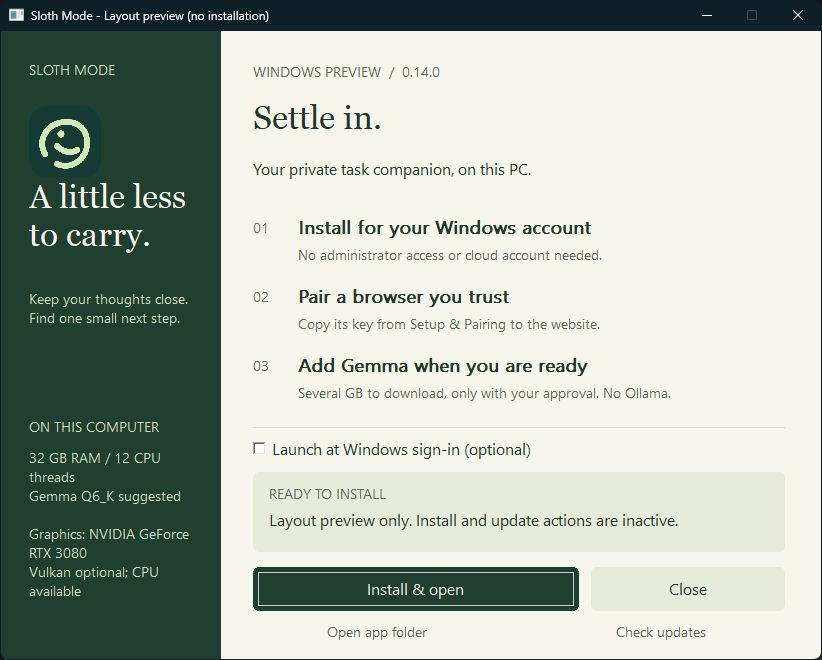
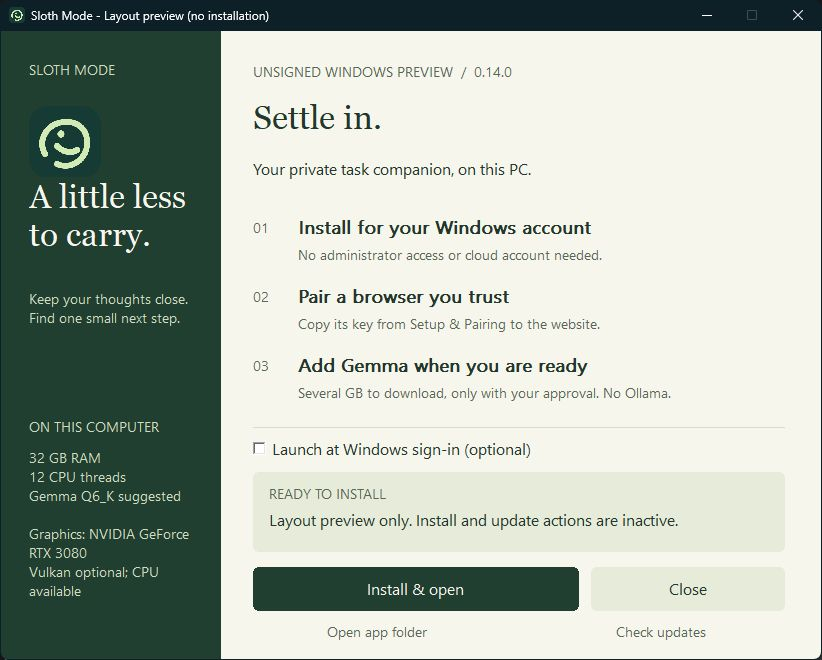
Fit hardware labels across Windows fonts and prepare DEV article

diff --git a/installer/hardware_windows.go b/installer/hardware_windows.go
@@ -35,7 +35,7 @@ func installerRecommendation() string {
 		quant = "Q5_K_M"
 	}
 	if gb > 0 {
-		return fmt.Sprintf("%.0f GB RAM / %d CPU threads\nGemma %s suggested", gb, runtime.NumCPU(), quant)
+		return fmt.Sprintf("%.0f GB RAM\n%d CPU threads\nGemma %s suggested", gb, runtime.NumCPU(), quant)
 	}
 	return fmt.Sprintf("%d CPU threads\nGemma Q4_K_M suggested", runtime.NumCPU())
 }

diff --git a/docs/DEVTO_ARTICLE_UPDATE.md b/docs/DEVTO_ARTICLE_UPDATE.md
@@ -1,0 +1,126 @@
+*This is a submission for the [Hacktoberfest Open-Source AI Challenge Week 3: Slow and Steady](https://dev.to/challenges/hacktoberfest-week3-2026-10-19).* 🦥
+
+Pay the electricity bill tomorrow. Read a chapter when I have time. I already tidied the desk.
+
+A to-do list can hold all three. I still have to decide what matters, what can wait, and what no longer needs doing. On a tired day, organising the list becomes another task on the list.
+
+I built **Sloth Mode** to make that first decision smaller: put rough notes in one place, let a local Gemma model suggest a plan, then choose what to do with it. The private notes can stay on the computer doing the thinking.
+
+## What I Built
+
+Sloth Mode is a task companion for the loose ends you capture before you know what to do with them. Gemma suggests a priority, category, short summary and next action for each selected note. Each suggestion points back to its original note, so you can check the wording before accepting it.
+
+It is for someone who wants help starting without first maintaining an elaborate productivity system. The model drafts the organisation; the person can edit, ignore or act on it. Sloth Mode does not send messages or execute the suggested tasks.
+
+There are three ways to explore it:
+
+| Route | What happens | What you need |
+|---|---|---|
+| **Quiet Lab** | An illustrative, rules-based preview of the interaction | A browser; no account or download |
+| **Native Gemma** | Real Gemma 3 GGUF inference through a local Go companion and `llama.cpp` | Windows preview or experimental Linux build; separate model/runtime download and explicit browser pairing |
+| **Browser Gemma beta** | An experimental Gemma 4 E2B path using WebGPU/LiteRT-LM | Compatible hardware/browser and an approved model download of about 2 GB; wider compatibility is still unverified |
+
+An optional account holds a **separate** list of tasks you explicitly save there. Signing in does not silently upload the local inbox or grant access to the companion.
+
+## Demo
+
+**[Try the guest workspace →](https://sloth.marceli.dev/dashboard)**
+
+Start with Quiet Lab and its sample notes. It is the quickest way to understand the interaction, and it is labelled as a preview: **it does not call Gemma**.
+
+The existing short video introduces the public beta:
+
+{% youtube GnaEFKQW9Vw %}
+
+*This is a promotional overview, not a recording or benchmark of model inference.*
+
+### What real Gemma returned
+
+In a recorded **21 October CPU check**, Gemma 3 4B Q4_K_M processed these three fictional notes:
+
+| Original note | Suggested priority | Suggested next action |
+|---|---|---|
+| Pay electricity bill tomorrow. | Do next | Pay the electricity bill |
+| Read a chapter of a novel when I have time. | Save for later | Read a chapter of the novel |
+| I finished tidying my desk yesterday; no more action is needed. | No action | No action needed |
+
+Model startup took **2.766 seconds** and the generation request took **14.808 seconds**, using four CPU threads and zero GPU layers with the files already downloaded. That is one functional check on three notes, not a general quality score or a measurement of time saved. The [CPU report](https://github.com/marceli1404/sloth-mode/blob/564f4a3dd5364cfe191eb22b3dcd40cc5a4be5ba/docs/CPU_DEMO_REPORT.md) records the source, environment, hashes and earlier failures. These historical timings are separate from the new installer work.
+
+### Trying the native path
+
+1. Get the unsigned Windows preview and its SHA-256 from the [beta download guide](https://github.com/marceli1404/sloth-mode/blob/main/docs/PUBLIC_BETA_LAUNCH.md), or build from source.
+2. Install the companion for your Windows account. Open **Setup & Pairing**, then pair the browser you trust.
+3. Separately approve the Gemma model and runtime download. Use fictional notes for your first plan and review the suggestions.
+
+The native model download is several GB, depending on the quantization. An account and Ollama are not required. The [judges' quickstart](https://github.com/marceli1404/sloth-mode/blob/main/docs/WEEK3_JUDGES_QUICKSTART.md) includes an opt-in real-model test for a machine with those files installed.
+
+On 24 October I also refined the installer. Its old preview clipped text and made it too hard to see what would happen next. The [new candidate in PR #34](https://github.com/marceli1404/sloth-mode/pull/34) separates installation, browser pairing and the optional model download, with readable status and a layout that fits the monitor. It remains a review candidate; the older beta download above is a different build.
+
+![Sloth Mode's refined native Windows installer, with three setup steps, an optional sign-in launch checkbox and a primary Install & open button. The window is labelled as a layout preview with installation actions inactive.](https://raw.githubusercontent.com/marceli1404/sloth-mode/564f4a3dd5364cfe191eb22b3dcd40cc5a4be5ba/docs/images/installer-preview.jpg)
+
+*The actual native UI in a safe layout fixture. This image demonstrates the interface, not a completed installation or inference run.*
+
+## Code
+
+**[github.com/marceli1404/sloth-mode](https://github.com/marceli1404/sloth-mode)**
+
+The Go companion is in `connector/`, the Windows installer in `installer/`, the browser workspace in `web/`, and the reference account service in `cloud/`. Application code is MIT-licensed; Gemma weights and the runtime retain their own terms.
+
+The [first commit](https://github.com/marceli1404/sloth-mode/commit/0a51feca7a22a0b3ce06a5585740c8219f842e70) is dated 20 October 2026, inside the Week 3 build window. The [installer refinement and evaluation files](https://github.com/marceli1404/sloth-mode/pull/34) are reviewable separately from main. The live website is deployed separately too; cloning the reference account Worker does not recreate every production account binding.
+
+## How I Built It
+
+### Keep the private work on the computer
+
+The native path is straightforward:
+
+```text
+Browser workspace
+  -> explicit pairing with 127.0.0.1
+  -> Go companion reads selected local notes
+  -> Gemma 3 GGUF runs through llama.cpp
+  -> validate structured suggestions and original note IDs
+  -> show the plan for a person to review
+```
+
+Model weights and runtime archives are downloaded separately after approval and checked against expected hashes. The local service binds to loopback. A cloud sign-in is not a replacement for pairing with that service.
+
+The validator checks IDs and structure before accepting a plan. It can reject an invented or duplicate note ID. It cannot prove that a fluent summary kept every important detail.
+
+### Valid JSON is not a good plan
+
+The first three-note run made the bill less urgent and treated optional reading as requiring no action. Explicit priority rules and examples helped, but another run paired an actionable bill with “No action needed.” That was a useful reminder to check both the label and the proposed action.
+
+I then tested **12 unfamiliar fictional notes** with priorities fixed beforehand. The baseline returned all 12 IDs and matched all 12 expected priorities. It still dropped “tomorrow” from the library-book summary and next action. The task looked sensible while losing its deadline.
+
+An experimental instruction to preserve timing improved some summaries, but the priority score fell to **11/12**: “call the building manager today” moved from Do next to Save for later.
+
+Both sets of [recorded inputs and outputs](https://github.com/marceli1404/sloth-mode/tree/564f4a3dd5364cfe191eb22b3dcd40cc5a4be5ba/docs/evaluation) are published with their limits. These are small historical runs, not a representative benchmark, and the experiment's exact prompt snapshot was not retained. I cannot treat the better score as a guarantee for current builds. It is why the original note and human review remain part of the workflow.
+
+### Setup deserves the same care
+
+A local model is not useful if getting it running feels like another project. The installer refinement uses explicit font roles, consistent backgrounds and DPI-aware fitting. Installation and update work run off the UI thread, failed replacement can restore the previous app, and starting a process alone does not count as success: the installer checks the companion's local health response.
+
+The new candidate passes **12 installer tests**, connector tests, Windows builds and static analysis. Text fitting and window bounds are checked at multiple scales; the native layout, Tab focus and Escape were also inspected. Those checks do not substitute for installing the candidate on a clean profile. The [verification report](https://github.com/marceli1404/sloth-mode/blob/refine/installer-20261024/docs/INSTALLER_REFINEMENT_2026-10-24.md) distinguishes them.
+
+## Why Does Open Innovation Matter?
+
+For a private task inbox, where the model runs matters. Open-weight Gemma and `llama.cpp` let the companion process the notes locally, without a hosted inference account or a per-prompt API bill. There are still costs: memory, storage, electricity and the initial download.
+
+It also lets me inspect the prompt, change quantization and runtime settings, and repeat the same fictional cases. The deadline failure above is visible in the published output. Someone else can study it or change the handling rather than trusting a screenshot of the best result.
+
+After downloading the model and runtime, native inference can run without an internet connection. Earlier Windows previews have an [owner-reported successful offline/restart/persistence check](https://github.com/marceli1404/sloth-mode/issues/8#issuecomment-6328830871). That is one person's report on older builds; the new installer still needs its own complete acceptance run. The hosted website and account services continue to need connectivity.
+
+## The Lazy Payoff
+
+The effort I want to remove is the sorting between “I should remember this” and “here is one thing I can start.” Gemma drafts priorities and next actions so I have something small to review.
+
+I have not measured minutes saved per day or run a multi-user study. My evidence is narrower: actual CPU output, published synthetic failures, a working guest preview, and owner experience on one Windows environment. A useful next study would compare manual sorting with assisted sorting on the same fictional backlog, including review time, mistakes and setup cost.
+
+This is still a public beta. Signed installers, independent native security review, wider Linux/GPU coverage and a recorded end-to-end demonstration remain unfinished. Browser Gemma is experimental. The [release checklist](https://github.com/marceli1404/sloth-mode/blob/main/docs/RELEASE_VALIDATION.md) keeps those gaps visible.
+
+## Prize Categories
+
+**Best Use of Gemma.** Gemma does the native task planning, with its suggestions tied to the notes that prompted them. The browser beta explores a separate Gemma execution path; the no-download preview is clearly labelled as illustrative.
+
+If that sounds useful, [try the guest workspace](https://sloth.marceli.dev/dashboard) or [report what breaks](https://github.com/marceli1404/sloth-mode/issues/30) using fictional notes. I wanted a tool that makes the next task feel smaller. That is the test I want Sloth Mode to pass.

diff --git a/docs/INSTALLER_REFINEMENT_2026-10-24.md b/docs/INSTALLER_REFINEMENT_2026-10-24.md
@@ -9,10 +9,11 @@ The refinement starts from main `ae35a26`, retaining its runtime/archive fixes a
 - Windows connector tests, installer build and both `go vet ./...` checks pass using portable Go 1.27.3.
 - Installer: **12 top-level tests pass**, with one opt-in visual fixture skipped by default. Tests include failed replacement/rollback, incomplete payload preservation, singleton exclusion/handoff, async operation controls and rejecting unrelated localhost health responses.
 - Window bounds fit 100%, 125%, 150% and 200% DPI across four work areas, including a 1366×728 work area and a monitor left of the primary display. A failing 200% test caught a non-client title-bar sizing error; fitting now subtracts the actual native frame dimensions.
+- The first Windows CI run caught an additional hardware-label wrap at 125% with the runner's font metrics. RAM and CPU now have separate short lines; the text-fit assertion remains strict.
 - GDI measures every static control's text at scales 0.85, 1, 1.25, 1.5 and 2. No measured text overflows its height and no control lies outside the client. This is layout evidence, not a claim that Windows display settings were changed on physical monitors.
 - The actual production UI was opened in an opt-in native test fixture. Install, launch, update and folder-opening commands are intercepted in that fixture; it does not install or modify the user's existing companion. The visible window, primary/Close focus navigation and Escape were inspected. [Screenshot](images/installer-preview.jpg) shows the fixture with its preview notice.
 - **35 Node tests pass** for account, browser AI, workspace, brand and beta access. A pre-existing Windows checkout line-ending mismatch caused the generated account-bundle equality test to fail initially; normalizing the local cloud files to LF resolved it with no Git content changes.
[2 lines of base64/hex data omitted]
 
 CI now retains the unsigned preview artifact and SHA-256 for branch/PR builds as well as main and runs Windows static analysis. No stable updater manifest, signing key, live website deployment or release tag was changed.
 
